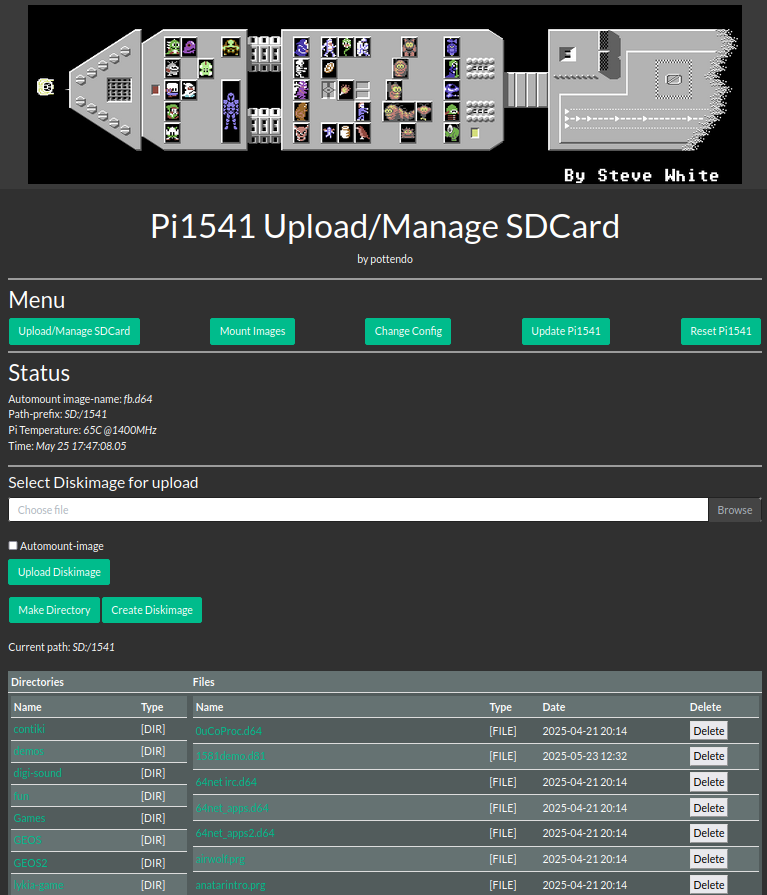
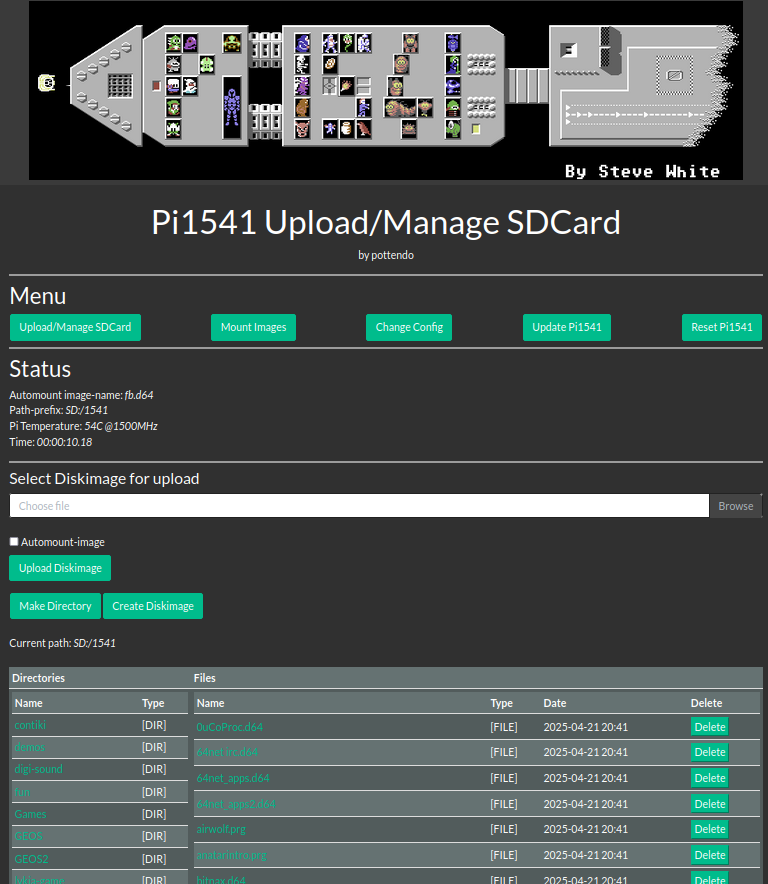
make buttons consistent color

diff --git a/src/webserver.cpp b/src/webserver.cpp
@@ -219,7 +219,7 @@ static int direntry_table(const string header, string &res, string &path, string
 			if (file_ops)
 			{
 				res += "<td>" +
-					    string("<a href=") + page + "?[DIR]&"+ urlEncode(path) + "&[DEL]&" + urlEncode(it.fname) + "><button type=\"button\">Delete</button></a>" +
+					    string("<a href=") + page + "?[DIR]&"+ urlEncode(path) + "&[DEL]&" + urlEncode(it.fname) + "><button type=\"button\" class=\"btb btn-success\">Delete</button></a>" +
 					   "</td>";
 			}
 			res += "</tr>";
